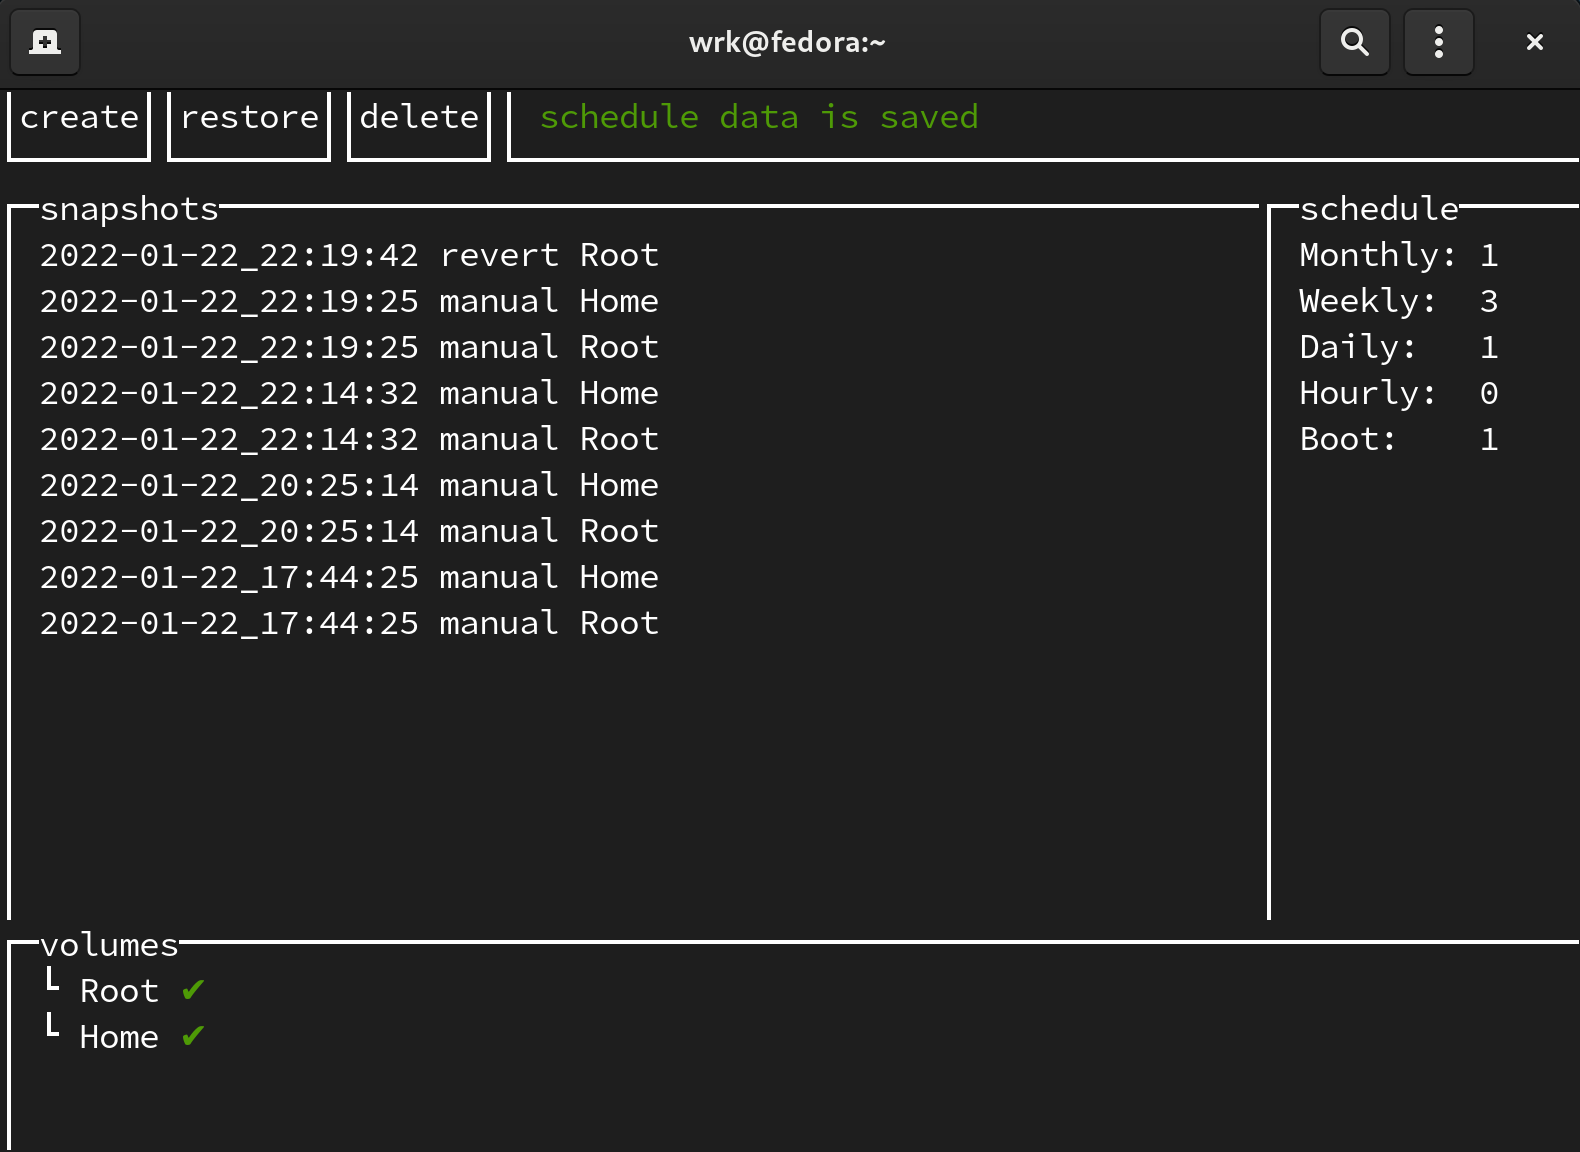
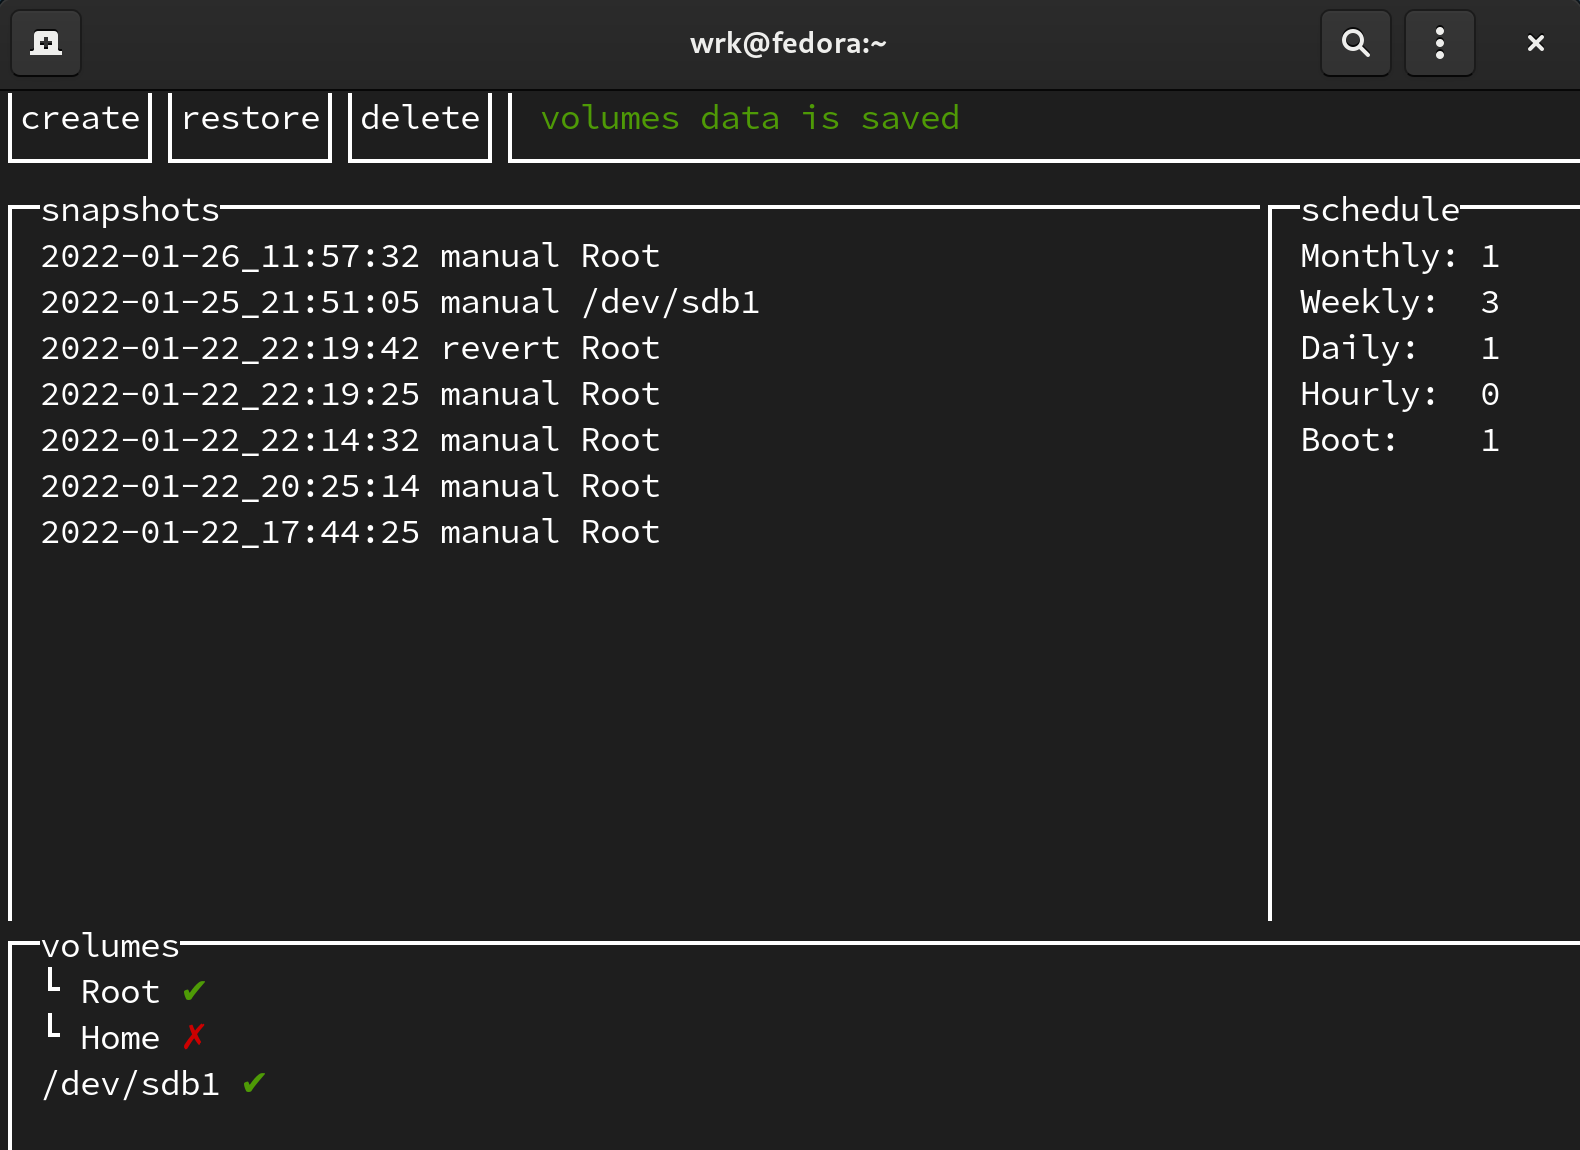
do not keep unouted devices in config

diff --git a/pkg/config/config.go b/pkg/config/config.go
@@ -55,9 +55,6 @@ func New(log *logger.Client) (*Config, error) {
 	}
 	cfg.Path = configPath
 	cfg.FileMode = domain.RWFileMode
-	for i := range cfg.Volumes {
-		cfg.Volumes[i].Device.Mounted = false
-	}
 
 	err = cfg.checkIfKernelSupportsBtrfs()
 	if err != nil {
@@ -159,27 +156,24 @@ func (cfg *Config) checkIfKernelSupportsBtrfs() error {
 func (cfg *Config) setupVolumes(vv []domain.Volume) error {
 	var err error
 
-OUT:
 	for i := range vv {
-		for j := range cfg.Volumes {
-			if vv[i].Device.MountPoint == cfg.Volumes[j].Device.MountPoint { // check if this path has been already added
-				cfg.Volumes[j].Device.Mounted = true
+		vv[i].ID, err = btrfs.GetVolumeID(vv[i].Device.MountPoint)
+		if err != nil {
+			return err
+		}
 
-				continue OUT
+		for j := range cfg.Volumes {
+			if vv[i].ID == cfg.Volumes[j].ID {
+				vv[i].Active = cfg.Volumes[j].Active
 			}
 		}
 
 		if vv[i].Device.MountPoint == "/" {
 			cfg.RootDevice = vv[i].Device.Path
 		}
-
-		vv[i].ID, err = btrfs.GetVolumeID(vv[i].Device.MountPoint)
-		if err != nil {
-			return err
-		}
-
-		cfg.Volumes = append(cfg.Volumes, vv[i])
 	}
+
+	cfg.Volumes = vv
 
 	return nil
 }

diff --git a/pkg/gui/volumes_panel.go b/pkg/gui/volumes_panel.go
@@ -46,9 +46,6 @@ func (gui *Gui) volumesView() (*gocui.View, error) {
 func (gui *Gui) drawVolumes(view *gocui.View) {
 	view.Clear()
 	for i := range gui.config.Volumes {
-		if !gui.config.Volumes[i].Device.Mounted {
-			continue
-		}
 		var activeSign string
 		if gui.config.Volumes[i].Active {
 			activeSign = colors.FgGreen(active)
@@ -71,6 +68,7 @@ func (gui *Gui) editVolumes(g *gocui.Gui, view *gocui.View) error {
 
 	view.Editable = true
 	_, cY := view.Cursor()
+	gui.log.InfoLog.Printf("cY = %d", cY)
 	if cY < len(gui.config.Volumes) {
 		gui.config.Volumes[cY].Active = !gui.config.Volumes[cY].Active
 		gui.drawVolumes(view)

diff --git a/pkg/logger/logger.go b/pkg/logger/logger.go
@@ -30,7 +30,7 @@ func New() (*Client, error) {
 
 	ph := path.Join(defaultLogDir, "app.log")
 
-	logFile, err := os.OpenFile(ph, os.O_RDWR|os.O_CREATE, domain.RWFileMode) // nolint gosec: ph is constructed from constants.
+	logFile, err := os.OpenFile(ph, os.O_RDWR|os.O_CREATE|os.O_TRUNC, domain.RWFileMode) // nolint gosec: ph is constructed from constants.
 	if err != nil {
 		return nil, err
 	}

diff --git a/pkg/gui/restore_button.go b/pkg/gui/restore_button.go
@@ -54,7 +54,7 @@ func (gui *Gui) restoreSnapshot(g *gocui.Gui, v *gocui.View) error {
 
 	if !gui.volumeInRootFs(vol) {
 		gui.state.status = colors.FgRed(
-			fmt.Sprintf("volume %s is not a child subvolume top level subvolume", vol.Label))
+			fmt.Sprintf("volume %s is not a child of top level subvolume", vol.Label))
 
 		return gui.escapeFromViewsByName(gui.views.snapshots.name)
 	}

diff --git a/pkg/commands/btrfs/btrfs.go b/pkg/commands/btrfs/btrfs.go
@@ -67,7 +67,7 @@ func DeleteSnapshot(ph string) error {
 func SnapshotsList(volumes []domain.Volume) ([]domain.Snapshot, error) {
 	snaps := sortableSnapshots{}
 	for _, v := range volumes {
-		if !v.Active || !v.Device.Mounted {
+		if !v.Active {
 			continue
 		}
 		sn, err := snapshotsListByVolume(v)

diff --git a/pkg/commands/findmnt/volumes.go b/pkg/commands/findmnt/volumes.go
@@ -91,7 +91,6 @@ func buildVolume(fmv findMntVolume) domain.Volume {
 			Path:       strings.Split(fmv.Source, "[")[0], // safe even if string without `[` character
 			MountPoint: fmv.Target,
 			UUID:       fmv.UUID,
-			Mounted:    true,
 		},
 	}
 

diff --git a/pkg/gui/create_button.go b/pkg/gui/create_button.go
@@ -43,7 +43,7 @@ func (gui *Gui) createSnapshot(g *gocui.Gui, view *gocui.View) error {
 	var activeVolumeFound bool
 
 	for _, vol := range gui.config.Volumes {
-		if !vol.Active || !vol.Device.Mounted {
+		if !vol.Active {
 			continue
 		}
 

diff --git a/pkg/domain/volume.go b/pkg/domain/volume.go
@@ -15,5 +15,4 @@ type Device struct {
 	UUID       string `json:"uuid"`
 	Path       string `json:"path"`
 	MountPoint string `json:"mount_point"`
-	Mounted    bool   `json:"mounted"`
 }

diff --git a/README.md b/README.md
@@ -13,7 +13,24 @@ Delorean helps managing snapshots of any mounted btrfs subvolume.
 
 Delorean allows to rollback subvolumes, that are children of the top level subvolume, using ui. Check [Flat layout](https://btrfs.wiki.kernel.org/index.php/SysadminGuide#Flat) from btrfs wiki.
 
+## Features
+
+- cli-ui
+- mouse support
+- support snapshots managing for hot pluggable devices 
+- easy rollback of top level children
+
 
 ## UI
 
 <img src="assets/scrnsht.png" width="700">
+
+## Alternatives
+
+There are mature and awesome tools that help you to manage btrfs as well but with different from delorean approach.
+
+Each of them (delorean as well) has it's own restrictions and advantages. Choose more appropriate to your cases.
+
+[Timeshift](https://github.com/teejee2008/timeshift)
+
+[snapper](https://github.com/openSUSE/snapper) 
